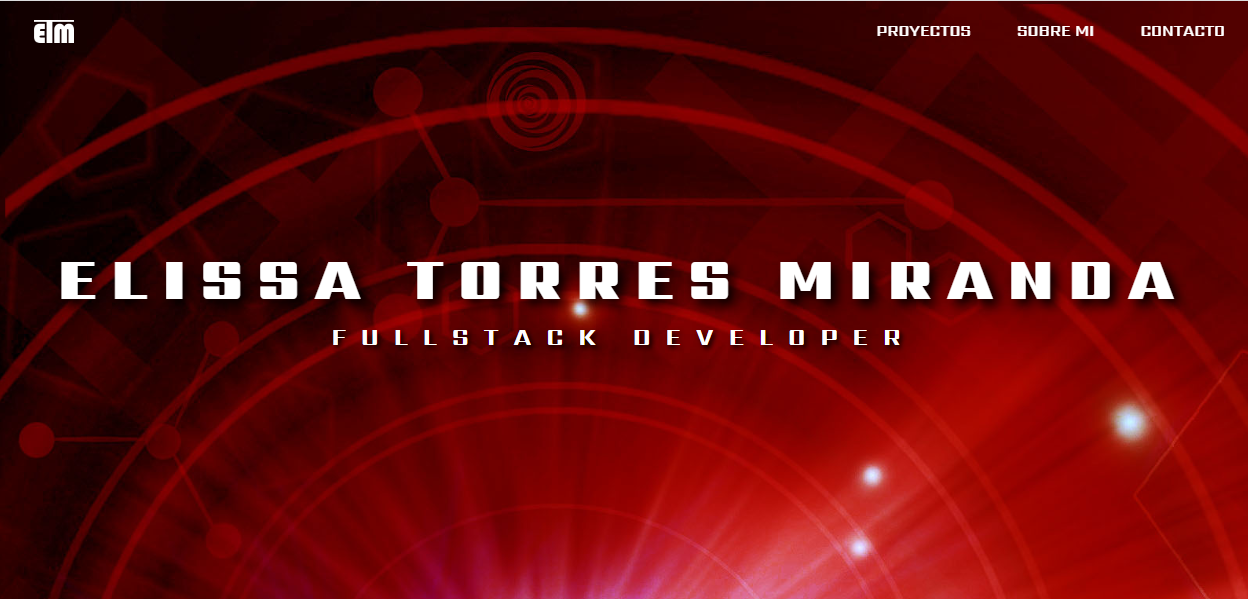
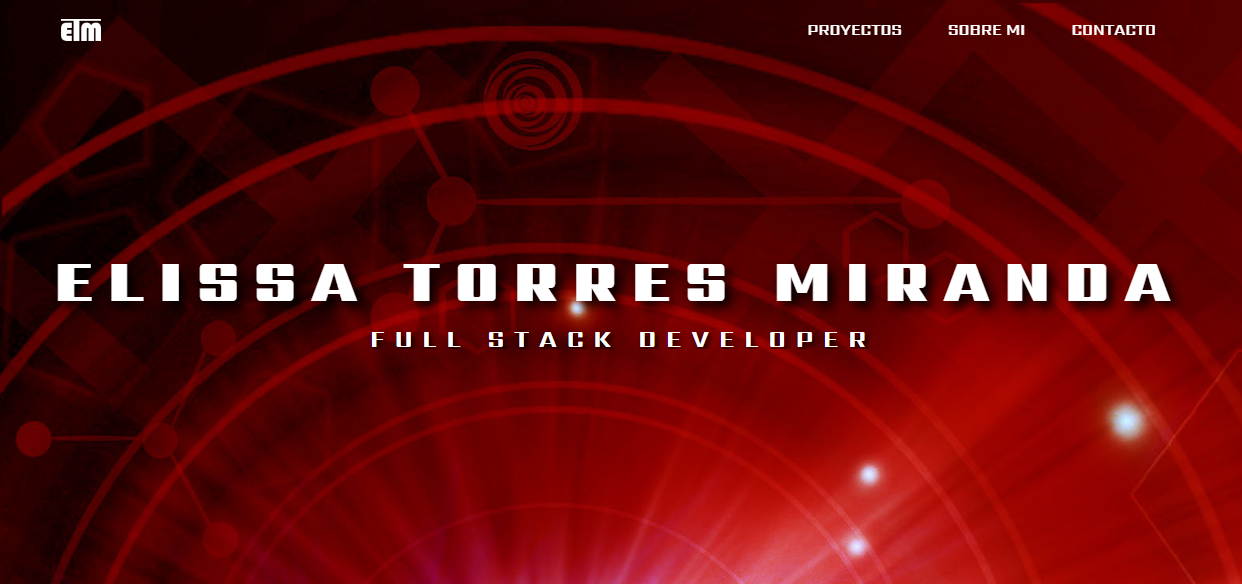
portoflio publicado

diff --git a/index.html b/index.html
@@ -65,19 +65,19 @@
 				<!--Gallery Bootstrap-->
 				<div class="my-grid row">
 					<article class="article col-12 col-sm-6 col-lg-4">
-						<a href="#" title="Portfolio Personal">
+						<a href="https://github.com/elissatmdeveloper/portfolio" title="Portfolio Personal">
 							<div class="imagen">
 								<img src="assets/pr-portfolio.png" alt="Imagen" class="img w-100" loading="lazy">
 							</div>
 							<div class="info p-2">
 								<h2 class="h2">Portfolio Personal</h2>
-								<p class="p2">Sitio Web desarrollado con HTML5, CSS3, Bootstrap, PHP, jQuery, Responsive Design,...</p>
+								<p class="p2">Sitio Web desarrollado con HTML5, CSS3, Bootstrap, PHP, jQuery, Responsive Web Design,...</p>
 							</div>
 						</a>
 					</article>
 
 					<article class="article col-12 col-sm-6 col-lg-4">
-						<a href="../secret/index.html" title="Secret">
+						<a href="https://github.com/elissatmdeveloper/secret" title="Secret">
 							<div class="imagen">
 								<img src="assets/pr-secret.png" alt="Imagen" class="img w-100" loading="lazy">
 							</div>
@@ -89,7 +89,7 @@
 					</article>
 
 					<article class="article col-12 col-sm-6 col-lg-4">
-						<a href="../agricola/index.html" title="Explotaciones agrícolas en Cataluña">
+						<a href="https://github.com/elissatmdeveloper/agricola" title="Explotaciones agrícolas en Cataluña">
 							<div class="imagen">
 								<img src="assets/pr-agricola.png" alt="Imagen" class="img w-100" loading="lazy">
 							</div>
@@ -101,7 +101,7 @@
 					</article>
 
 					<article class="article col-12 col-sm-6 col-lg-4">
-						<a href="../pokemon/index.html" title="Pokémon">
+						<a href="https://github.com/elissatmdeveloper/pokemon" title="Pokémon">
 							<div class="imagen">
 								<img src="assets/pr-pokemon.png" alt="Imagen" class="img w-100" loading="lazy">
 							</div>
@@ -175,70 +175,70 @@
 								<img src="assets/ico-html5.png" alt="html5" class="img" loading="lazy">
 								<div class="popup ocultar-popup">
 									<h2>HTML5</h2>
-									<p>Lorem ipsum dolor sit amet consectetur adipisicing elit. Temporibus dolorum velit illo xcepturi inventore similire sapiente?</p>
+									<p></p>
 								</div>
 							</div>
 							<div class="icons">
 								<img src="assets/ico-css3.png" alt="css3" class="img" loading="lazy">
 								<div class="popup ocultar-popup">
 									<h2>CSS3</h2>
-									<p>Lorem ipsum dolor sit amet consectetur adipisicing elit. Temporibus dolorum velit illo xcepturi inventore similire sapiente?</p>
+									<p></p>
 								</div>
 							</div>
 							<div class="icons">
 								<img src="assets/ico-js.png" alt="javascript" class="img" loading="lazy">
 								<div class="popup ocultar-popup">
 									<h2>JAVASCRIPT</h2>
-									<p>Lorem ipsum dolor sit amet consectetur adipisicing elit. Temporibus dolorum velit illo xcepturi inventore similire sapiente?</p>
+									<p></p>
 								</div>
 							</div>
 							<div class="icons">
 								<img src="assets/ico-jquery.png" alt="jquery" class="img" loading="lazy">
 								<div class="popup ocultar-popup">
 									<h2>JQUERY</h2>
-									<p>Lorem ipsum dolor sit amet consectetur adipisicing elit. Temporibus dolorum velit illo xcepturi inventore similire sapiente?</p>
+									<p></p>
 								</div>
 							</div>
 							<div class="icons">
 								<img src="assets/ico-php.png" alt="php" class="img" loading="lazy">
 								<div class="popup ocultar-popup">
 									<h2>PHP</h2>
-									<p>Lorem ipsum dolor sit amet consectetur adipisicing elit. Temporibus dolorum velit illo xcepturi inventore similire sapiente?</p>
+									<p></p>
 								</div>
 							</div>
 							<div class="icons">
 								<img src="assets/ico-bootstrap.png" alt="bootstrap" class="img" loading="lazy">
 								<div class="popup ocultar-popup">
 									<h2>BOOTSTRAP</h2>
-									<p>Lorem ipsum dolor sit amet consectetur adipisicing elit. Temporibus dolorum velit illo xcepturi inventore similire sapiente?</p>
+									<p></p>
 								</div>
 							</div>
 							<div class="icons">
 								<img src="assets/ico-mysql.png" alt="mysql" class="img" loading="lazy">
 								<div class="popup ocultar-popup">
 									<h2>MYSQL</h2>
-									<p>Lorem ipsum dolor sit amet consectetur adipisicing elit. Temporibus dolorum velit illo xcepturi inventore similire sapiente?</p>
+									<p></p>
 								</div>
 							</div>
 							<div class="icons">
 								<img src="assets/ico-java.png" alt="java" class="img" loading="lazy">
 								<div class="popup ocultar-popup">
 									<h2>JAVA</h2>
-									<p>Lorem ipsum dolor sit amet consectetur adipisicing elit. Temporibus dolorum velit illo xcepturi inventore similire sapiente?</p>
+									<p></p>
 								</div>
 							</div>
 							<div class="icons">
 								<img src="assets/ico-git.png" alt="git" class="img" loading="lazy">
 								<div class="popup ocultar-popup">
 									<h2>GIT</h2>
-									<p>Lorem ipsum dolor sit amet consectetur adipisicing elit. Temporibus dolorum velit illo xcepturi inventore similire sapiente?</p>
+									<p></p>
 								</div>
 							</div>
 							<div class="icons">
 								<img src="assets/ico-docker.png" alt="docker" class="img" loading="lazy">
 								<div class="popup ocultar-popup">
 									<h2>DOCKER</h2>
-									<p>Lorem ipsum dolor sit amet consectetur adipisicing elit. Temporibus dolorum velit illo xcepturi inventore similire sapiente?</p>
+									<p></p>
 								</div>
 							</div>
 						</div>
@@ -292,13 +292,13 @@
 							<img src="assets/rrss-linkedin.png" alt="Linkedin" class="img" loading="lazy">
 						</a>
 					</div>
-					<!--					
+									
 					<div class="icons">
-						<a href="#" title="GitHub">
+						<a href="https://github.com/elissatmdeveloper" title="GitHub">
 							<img src="assets/rrss-github.png" alt="GitHub" class="img" loading="lazy">
 						</a>
 					</div>
-					-->
+					
 				</div>
 			</section>
 
